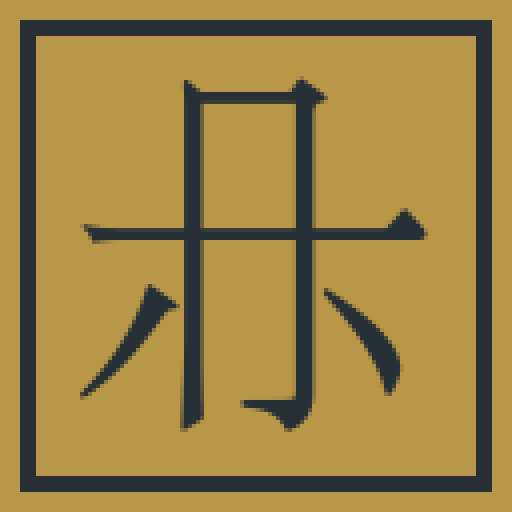
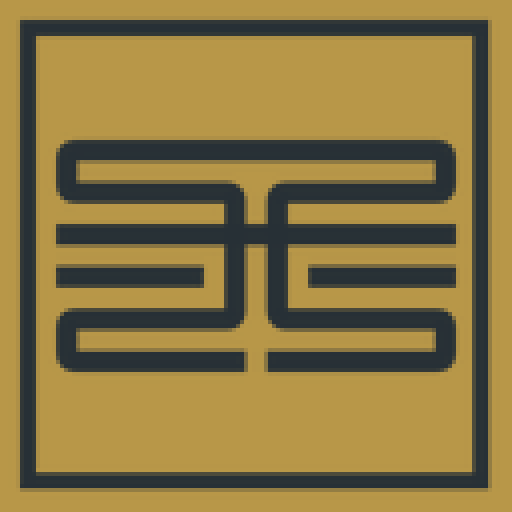
style(flags): use Khitan seal script for Liao

Changed region(s): [[0.0312, 0.0312, 0.9688, 0.9688]]

diff --git a/tools/map_pipeline/apply_b57_changsha_khitan.py b/tools/map_pipeline/apply_b57_changsha_khitan.py
@@ -16,7 +16,7 @@ FLAG=MOD/"gfx/flags/LIO.tga"
 BITMAP=MOD/"map/provinces.bmp"
 TARGETS={726:"沈阳",5204:"辽阳"}
 MARKER="GDD_B57_CHANGSHA_KHITAN"
[2 lines of base64/hex data omitted]
 
 def sha(path:Path)->str:return hashlib.sha256(path.read_bytes()).hexdigest()
 
@@ -96,7 +96,7 @@ def validate()->dict[str,object]:
  loc="\n".join(p.read_text(encoding="utf-8-sig") for p in (MOD/"localisation_source").glob("*.txt"))
  if len(re.findall(r'(?m)^\s*gdd_khitan:0\s+"契丹"\s*$',loc))!=1:
   raise ValueError("Khitan localisation missing")
- return {"batch":"B57_changsha_khitan","changsha":{"tag":"CSA","overlord":"CHC","subject_type":"vassal","development":39},"khitan_culture":{"key":"gdd_khitan","group":"altaic","provinces":sorted(TARGETS)},"liao_flag":{"script":"Khitan Large Script","glyph_pua":"U+E23D","interpretation":"possible Liao/Khitan state name or epithet"},"geometry":"unchanged","areas":"unchanged","trade":"unchanged","bitmap_sha256":sha(BITMAP)}
+ return {"batch":"B57_changsha_khitan","changsha":{"tag":"CSA","overlord":"CHC","subject_type":"vassal","development":39},"khitan_culture":{"key":"gdd_khitan","group":"altaic","provinces":sorted(TARGETS)},"liao_flag":{"script":"Khitan Large Script ninefold seal","source_glyph_pua":"U+E23D","seal_glyph_pua":"U+F012","interpretation":"possible Liao/Khitan state name or epithet"},"geometry":"unchanged","areas":"unchanged","trade":"unchanged","bitmap_sha256":sha(BITMAP)}
 
 def write_docs(before:str)->None:
  PLAN.mkdir(parents=True,exist_ok=True)
@@ -104,7 +104,7 @@ def write_docs(before:str)->None:
  for i in range(0,len(data),3):b,g,r=data[i:i+3];pixels.append((r,g,b))
  im.putdata(pixels);im.resize((512,512),Image.Resampling.NEAREST).save(PLAN/"liao_flag_preview.png")
  report=validate()
- (PLAN/"README.md").write_text("# B57 长沙附庸与契丹文化\n\n长沙国（CSA）改为楚国（CHC）的开局附庸。沈阳（726）与辽阳（5204）改为蒙古文化组下的契丹文化，辽国以契丹为主文化。辽旗使用契丹大字实验字库 U+E23D 字形；研究资料将其视为可能表示辽或契丹国家专称的字符。地图、区域、贸易与发展度不变。\n\n字形依据：https://www.babelstone.co.uk/Blog/2012/10/khitan-seals.html （Seal A6 讨论）\n",encoding="utf-8")
+ (PLAN/"README.md").write_text("# B57 长沙附庸与契丹文化\n\n长沙国（CSA）改为楚国（CHC）的开局附庸。沈阳（726）与辽阳（5204）改为蒙古文化组下的契丹文化，辽国以契丹为主文化。辽旗使用契丹大字 U+E23D 对应的九叠篆官印字形 U+F012；研究资料将其视为可能表示辽或契丹国家专称的字符。地图、区域、贸易与发展度不变。\n\n字形依据：https://www.babelstone.co.uk/Blog/2012/10/khitan-seals.html （Seal A6 与字形对应表）\n",encoding="utf-8")
  (PLAN/"batch_manifest.json").write_text(json.dumps({"marker":MARKER,"bitmap_sha256_before":before,"bitmap_sha256_after":sha(BITMAP),"validation":report},ensure_ascii=False,indent=2)+"\n",encoding="utf-8")
 
 def apply()->None:

diff --git a/planning/changsha_khitan_b57/README.md b/planning/changsha_khitan_b57/README.md
@@ -1,5 +1,5 @@
 # B57 长沙附庸与契丹文化
 
-长沙国（CSA）改为楚国（CHC）的开局附庸。沈阳（726）与辽阳（5204）改为蒙古文化组下的契丹文化，辽国以契丹为主文化。辽旗使用契丹大字实验字库 U+E23D 字形；研究资料将其视为可能表示辽或契丹国家专称的字符。地图、区域、贸易与发展度不变。
+长沙国（CSA）改为楚国（CHC）的开局附庸。沈阳（726）与辽阳（5204）改为蒙古文化组下的契丹文化，辽国以契丹为主文化。辽旗使用契丹大字 U+E23D 对应的九叠篆官印字形 U+F012；研究资料将其视为可能表示辽或契丹国家专称的字符。地图、区域、贸易与发展度不变。
 
-字形依据：https://www.babelstone.co.uk/Blog/2012/10/khitan-seals.html （Seal A6 讨论）
+字形依据：https://www.babelstone.co.uk/Blog/2012/10/khitan-seals.html （Seal A6 与字形对应表）
